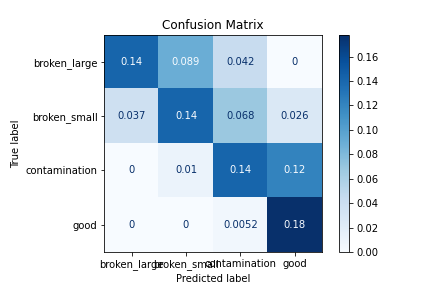
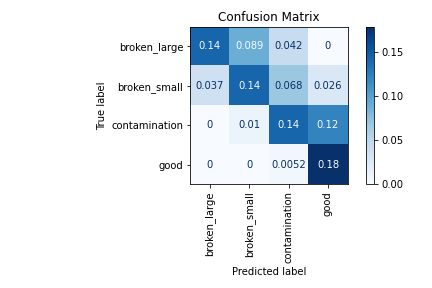
Vertical xticks for confusion matrix plot

diff --git a/classification/ensemble.py b/classification/ensemble.py
@@ -499,13 +499,15 @@ class Ensemble():
                                                        y_pred,
                                                        display_labels=labels, 
                                                        cmap=plt.cm.Blues,
-                                                       normalize="all")
+                                                       normalize="all",
+                                                       xticks_rotation="vertical")
         disp.ax_.set_title("Confusion Matrix")
+        plt.tight_layout()
         plt.savefig(filepath)
         
 
 def main():
-    load_all = False
+    load_all = True
     load_data = False
     
     type_name = "bottle"

diff --git a/classification/bag_of_visual_words.py b/classification/bag_of_visual_words.py
@@ -477,8 +477,10 @@ class BagOfVisualWords():
                                                         y_pred, 
                                                         display_labels=labels, 
                                                         cmap=plt.cm.Blues,
-                                                        normalize="all")
+                                                        normalize="all",
+                                                        xticks_rotation="vertical")
         disp.ax_.set_title("Confusion Matrix")
+        plt.tight_layout()
         plt.savefig(filepath)
     
 # MAIN ------------------------------------------------------------------------    
